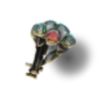
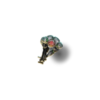
new Items

Changed region(s): [[0.24, 0.18, 0.93, 0.81]]

diff --git a/common/items_passive.py b/common/items_passive.py
@@ -429,6 +429,67 @@ class Item_reflex_shield(Items):
             data.PLAYER.max_shield_strength -= 1
 
 
+class Item_scan_rounds(Items):
+
+    def __init__(self, color):
+        super().__init__("Scan Rounds (passive)", ">Livesteal Flavor text<", (1, 1))
+        self.color = color
+        self.flag = "scan_rounds"
+        self.base_effect = 4
+        self.effect_strength = int(self.get_lvl_effects(reverse=True)[self.lvl])
+        # self.upgrade_desc = self.get_upgrade_desc(self.get_lvl_effects(reverse=True), "Stacks")
+
+    def get_upgrade_desc(self):
+        return f"Livesteal Amount: {int(self.get_lvl_effects(reverse=True)[self.lvl])}"
+
+    def set_effect_strength(self):
+        self.effect_strength = int(self.get_lvl_effects(reverse=True)[self.lvl])
+
+    def effect(self):
+        if self.flag not in Items.active_flag_lst:
+            Items.active_flag_lst.append(self.flag)
+
+            if data.PLAYER.indicator_slots[0] is None:  # left
+                data.PLAYER.indicator_slots[0] = Gui_text(
+                    anchor=data.PLAYER.hitbox,
+                    anchor_x=data.PLAYER.indicator_pos[0][0],
+                    anchor_y=data.PLAYER.indicator_pos[0][1],
+                    text=lambda: f"{int(data.TURRET.livesteal_progress)} %",
+                    text_size=15,
+                    text_color=(222, 91, 22),
+                    flag="livesteal_progress")
+                data.PLAYER.indicator_slots[2] = Gui_image(
+                    anchor=data.PLAYER.hitbox,
+                    anchor_x=data.PLAYER.indicator_pos[0][0] - 30,
+                    anchor_y=data.PLAYER.indicator_pos[0][1] - 5,
+                    img_idx=0,
+                    flag="livesteal_progress")
+            else:  # Right
+                if data.PLAYER.indicator_slots[1] is None:
+                    data.PLAYER.indicator_slots[1] = Gui_text(
+                        anchor=data.PLAYER.hitbox,
+                        anchor_x=data.PLAYER.indicator_pos[1][0],
+                        anchor_y=data.PLAYER.indicator_pos[1][1],
+                        text=lambda: f"{int(data.TURRET.livesteal_progress)} %",
+                        text_size=15,
+                        text_color=(222, 91, 22),
+                        flag="livesteal_progress")
+                    data.PLAYER.indicator_slots[3] = Gui_image(
+                        anchor=data.PLAYER.hitbox,
+                        anchor_x=data.PLAYER.indicator_pos[1][0] + 30,
+                        anchor_y=data.PLAYER.indicator_pos[1][1] - 5,
+                        img_idx=0,
+                        flag="livesteal_progress")
+
+    def end_effect(self):
+        if self.flag in Items.active_flag_lst:
+            Items.active_flag_lst.remove(self.flag)
+            for key in data.PLAYER.indicator_slots:
+                if data.PLAYER.indicator_slots[key] is not None:
+                    if data.PLAYER.indicator_slots[key].flag == "livesteal_progress":
+                        data.PLAYER.indicator_slots[key] = None
+
+
 Items.set_drop_table([
     (Item_auto_repair, (255, 0, 0)),
     (Item_targeting_scanner, (0, 0, 0)),

diff --git a/common/turret.py b/common/turret.py
@@ -26,8 +26,9 @@ class Turret:
     gfx_idx = 0
     hit_locations = []
     special_damage = 0
-    # Overdrive
+    # Special Values
     overdrive_count = 0
+    livesteal_progress = 0
     # ammunition = normal_fire_rate[1]
     fire_limiter = 0
     # special fire
@@ -84,6 +85,7 @@ class Turret:
     @classmethod
     def passiv_item_actions(cls):
         cls.debris_scanner()
+        cls.scan_rounds()
 
     @classmethod
     @timer
@@ -579,6 +581,18 @@ class Turret:
                 if random.randint(1, 100) > 100 - data.ITEMS.get_item(flag="debris_scanner").effect_strength:
                     item = random.choices([Item_damage_prog, Item_cd_reduction_prog, Item_shield_prog], [60, 25, 15], k=1)[0]
                     data.ITEMS.drop(loc.hitbox.center, target=item((100, 100, 200)))
+
+    @classmethod
+    def scan_rounds(cls):
+        if "scan_rounds" in data.ITEMS.active_flag_lst:
+            for _ in cls.hit_locations:
+                cls.livesteal_progress += data.ITEMS.get_item(flag="scan_rounds").effect_strength
+            if cls.livesteal_progress >= 100:
+                if data.PLAYER.health < data.PLAYER.max_health:
+                    data.PLAYER.health += 1
+                    cls.livesteal_progress = 0
+                else:
+                    cls.livesteal_progress = 100
 
     @classmethod
     def boss_snare(cls):

diff --git a/common/events.py b/common/events.py
@@ -741,8 +741,8 @@ class Events():
     @classmethod
     def get_special_events_lst(cls):
         return [
-            # (cls.event_comet_storm, 1),
-            # (cls.event_mine_field, 1),
+            (cls.event_comet_storm, 1),
+            (cls.event_mine_field, 1),
             # (cls.event_convoy_escort, 6),
             # (cls.event_battleship_defence, 6),
             # (cls.event_convoy_attack, 12),
@@ -750,7 +750,7 @@ class Events():
             # (cls.event_zone_defence, 18),
             # (cls.event_planet_evacuation, 18),
             # (cls.event_planet_invasion, 24),
-            (cls.event_ground_support, 1),  # Stealth Base infiltration
+            # (cls.event_ground_support, 1),  # Stealth Base infiltration
             (cls.event_placeholder, 30),  # Planeten Ring
             (cls.event_placeholder, 30),  # Battlegroup Escort
             (cls.event_placeholder, 36),  # Planeten Invasion / Ground Support

diff --git a/common/main.py b/common/main.py
@@ -37,7 +37,7 @@ def test_mode():
     Player.health = 40
     Player.max_health = 40
     Levels.scaling()
-    Levels.execute_special_event()
+    # Levels.execute_special_event()
     # Elites.spawn()
     # data.ENEMY.set_spawn_table(Shooter)
     # data.ENEMY_DATA.append(random.choice(Enemy.spez_spawn_table)())
@@ -75,7 +75,7 @@ def main():
     data.UP_MENU = Upgrade_menu()
 
     # Item Setup
-    # Items.drop((winwidth / 2, 400), target=Item_relfex_scanner((100, 100, 200)))
+    Items.drop((winwidth / 2, 400), target=Item_scan_rounds((100, 100, 200)))
     # Items.drop((winwidth / 2, 400), target=Item_bi_weave_shields((100, 100, 200)))
     Items.drop((winwidth / 2, 400), target=start_item_generator()((100, 100, 200)))
     Levels.special_events = Turret

diff --git a/common/event_enemys.py b/common/event_enemys.py
@@ -154,7 +154,12 @@ class Ground_infantry(Event_shooter):
     def __init__(self, dest):
         super().__init__(dest, standart_spawn=random.choice([1, 3, 4]))
         self.gfx_idx = (23, 24)
+        self.gfx_hook = (-30, -30)
         self.idle_gfx_idx = (22, 22)
         self.angles = angles_360(2)
         self.health = 1
         self.animation_speed = 60
+        self.hitbox = pygame.Rect(self.hitbox.topleft[0], self.hitbox.topleft[1], 35, 35)
+
+    def skill(self):
+        pass
